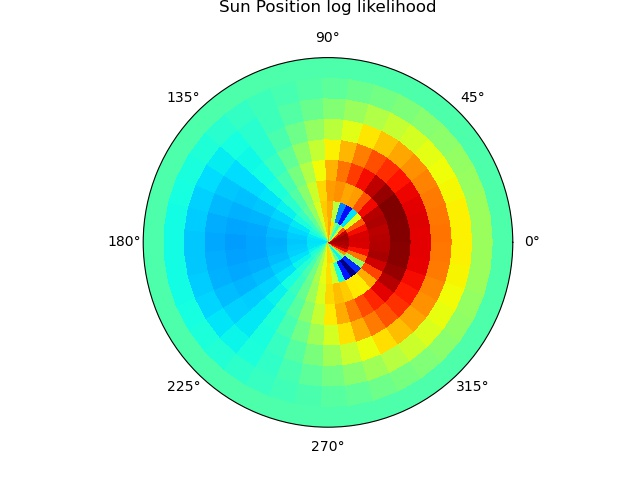
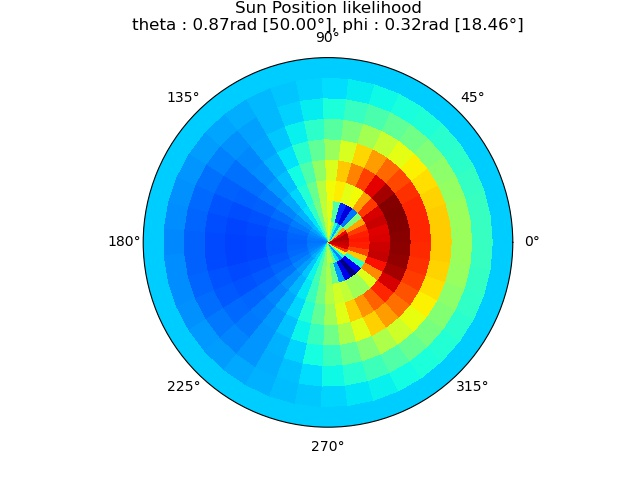
input specification and modify plot title

diff --git a/sun_position_estimation.py b/sun_position_estimation.py
@@ -6,7 +6,13 @@ from scipy import spatial
 import copy
 import time
 
-# input : image --> output : ~_sky.jpg (sky segmentation), ~_sun.jpg (sun position likelihood plot)
+# input : image, theta_c (카메라가 보는 방향의 고도), f (이미지 중심으로부터 45도가 몇 pixel인지)
+# output : ~_sky.jpg (sky segmentation), ~_sun.jpg (sun position likelihood plot)
+
+f = 100
+theta_c = 0
+phi_c = 0
+
 data_dir = 'data/dataset/'
 result_dir = 'results/dataset/'
 filename = 'y024'
@@ -126,10 +132,6 @@ img = cv2.bitwise_or(img, img, mask=mask)
 img = cv2.cvtColor(img, cv2.COLOR_BGR2RGB)
 cv2.imwrite(result_dir+filename+'_sky.jpg', img)
 
-f = 100
-theta_c = 0
-phi_c = 0
-
 # calculate theta_p, gamma_p
 def theta_and_gamma(u,v,f,theta_s, phi_s):
   theta_p = np.arccos((v * np.sin(theta_c) + f * np.cos(theta_c))/np.sqrt(u**2 + v**2 + f**2))
@@ -155,7 +157,8 @@ def relative_luminance(u, v, f, theta_s, phi_s):
 # assume gaussian distribution N(kg(theta_s, phi_s), sigma**2)
 # given one pixel and k, theta_s, phi_s ==> calculate likelihood
 
-def log_likelihood(s, u, v, f, k, theta_s, phi_s, sigma = 1.0):
+def log_likelihood(s, u, v, f, k, theta_s, phi_s, sigma = 10.0):
+  rl = relative_luminance(u, v, f, theta_s, phi_s)
   L = k * relative_luminance(u, v, f, theta_s, phi_s)
   ret = - ((s - L) ** 2) / (2 * (sigma**2))
   return ret
@@ -169,8 +172,9 @@ for x in range(0,h,step):
     sky.append((x,y))
 
 # make sky pixels ~ 500
-if len(sky) > 500:
-  nstep = int(np.sqrt(len(sky) // 500 + 1))
+desired_pixel_size = 500
+if len(sky) > desired_pixel_size:
+  nstep = int(np.sqrt(len(sky) // desired_pixel_size + 1))
   sky = []
   for x in range(0,h,nstep):
     for y in range(0,w,nstep):
@@ -212,15 +216,21 @@ likelihood_space = np.amax(likelihood_space, axis = 0)
 flatten_index = np.argmax(likelihood_space)
 theta_index = flatten_index // phi_len
 phi_index = flatten_index % phi_len
-print("theta : {}, phi : {}".format(theta_list[theta_index]/np.pi*180, phi_list[phi_index]/np.pi*180))
+theta_rad = theta_list[theta_index]
+theta_degree = theta_rad / np.pi * 180
+phi_rad = phi_list[phi_index]
+phi_degree = phi_rad / np.pi * 180
+title = 'Sun Position likelihood\ntheta : {:.2f}rad [{:.2f}°], phi : {:.2f}rad [{:.2f}°]'.format(theta_rad, theta_degree, phi_rad, phi_degree)
+print(title)
 
 ax = plt.subplot(1, 1, 1, projection='polar')
 mx = np.max(likelihood_space)
 mn = np.min(likelihood_space)
-z = (likelihood_space - mn) / (mx-mn)
+z = np.exp((likelihood_space - mn) / (mx-mn))
 cmap = plt.get_cmap('jet')
 plt.pcolormesh(phi_list, np.pi/2 - theta_list, z, cmap = cmap)
-ax.set_title('Sun Position log likelihood', position=(0.5, 1.1))
+
+ax.set_title(title, position = (0.5, 1.07), pad = 1)
 ax.set_rlim(0,np.pi/2)
 ax.axes.get_yaxis().set_visible(False)
 plt.savefig(result_dir+filename+'_sun.jpg')
